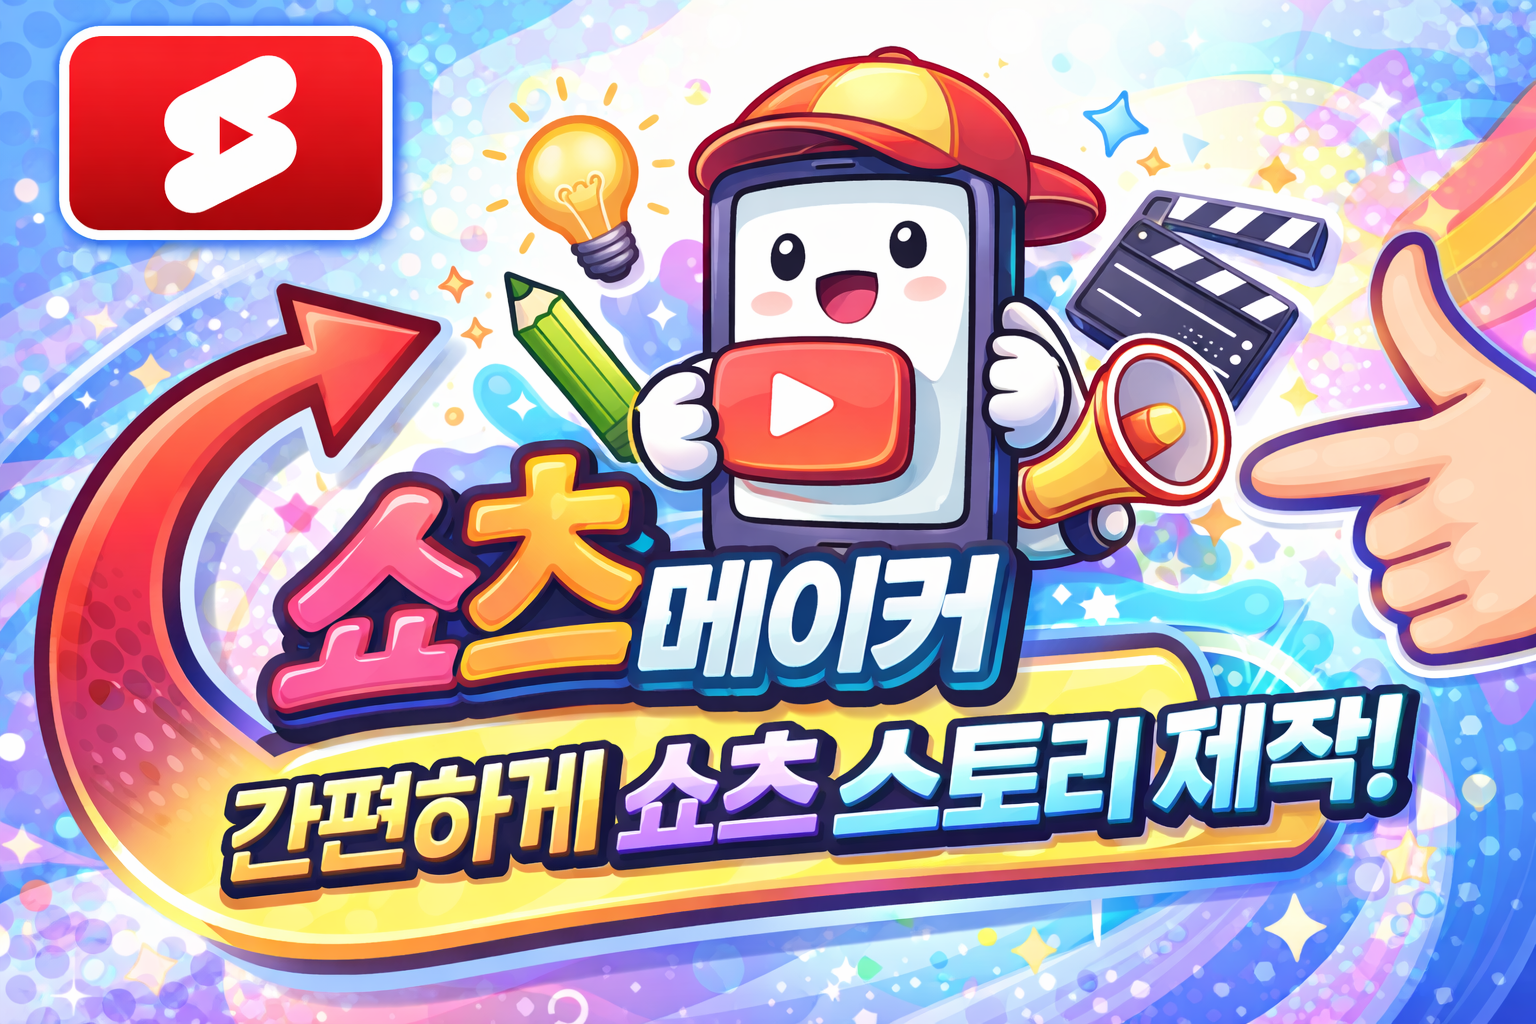
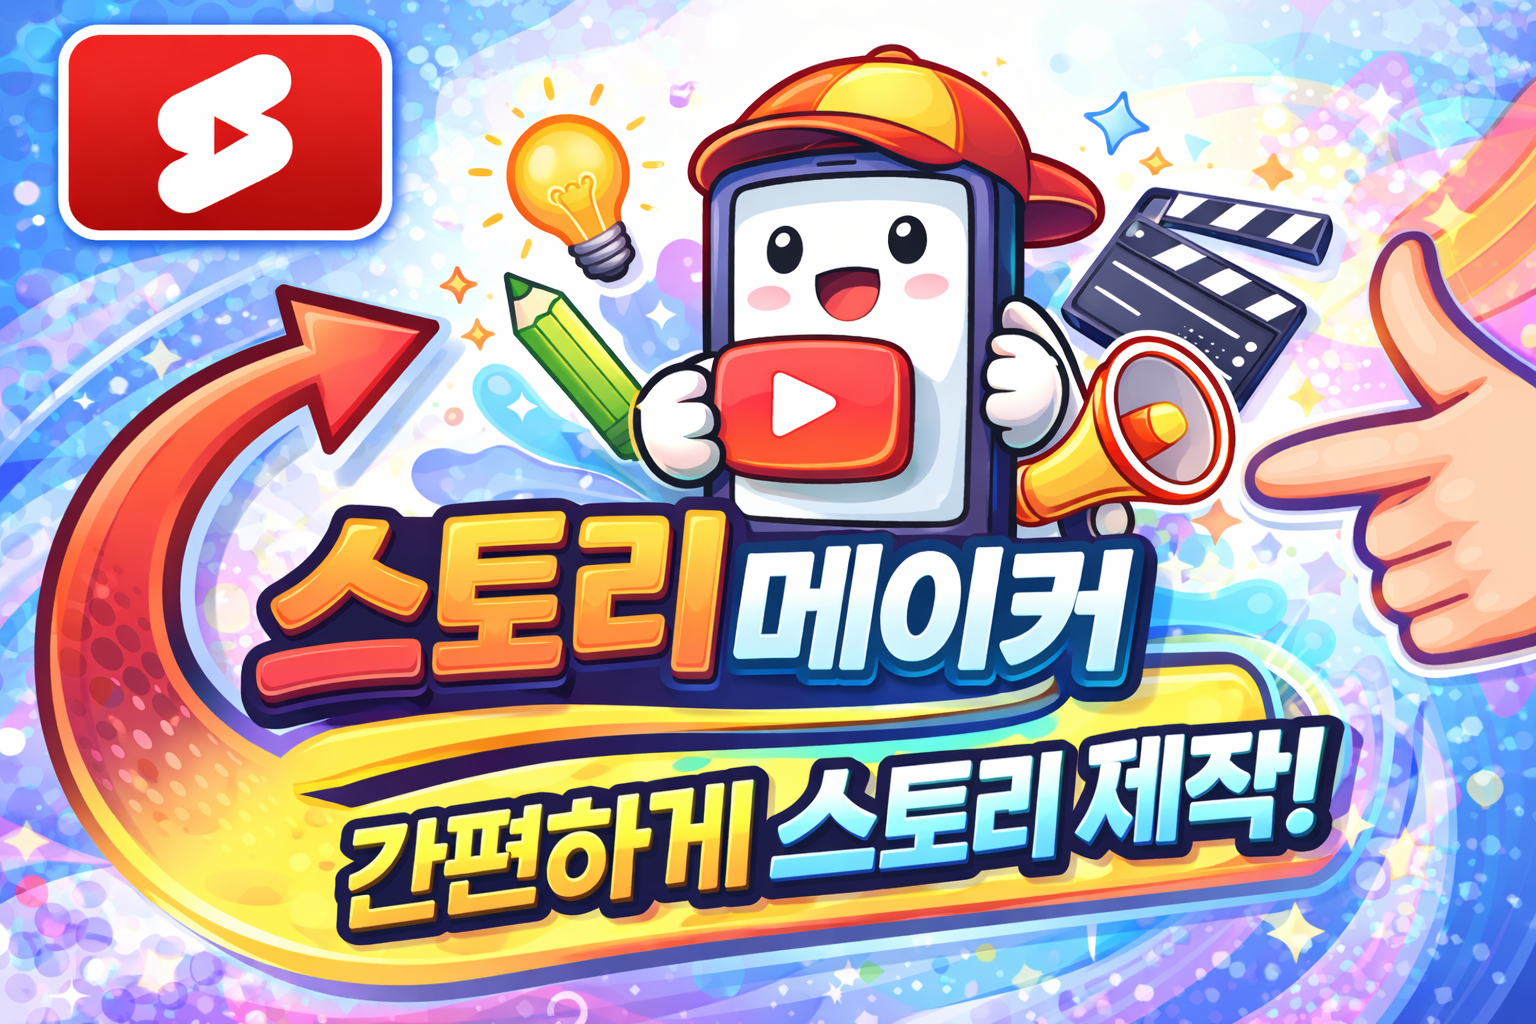
캐시수정급!

diff --git a/src/components/layout/side-layout.tsx b/src/components/layout/side-layout.tsx
@@ -3,6 +3,7 @@ import SidebarItem from "../main/side-bar-item";
 import { useSession } from "@/store/session";
 import Loader from "../loader";
 import RightPanel from "../main/right-side-bar";
+import SidebarLogo from "@/assets/sidebar.png";
 
 export default function SideLayout() {
   const session = useSession();
@@ -12,8 +13,12 @@ export default function SideLayout() {
   return (
     <div className="mx-auto flex min-h-screen">
       <aside className="sticky top-0 h-[calc(100vh-5.25rem)] w-60 md:block">
-        <div className="flex justify-center px-6 py-5 text-lg font-bold">
-          쇼츠 메이커
+        <div className="flex justify-center">
+          <img
+            src={SidebarLogo}
+            alt="스토리메이커 로고"
+            className="h-28 max-w-full object-contain"
+          />
         </div>
 
         <nav className="flex flex-col gap-1 px-3 text-lg">

diff --git a/src/hooks/mutations/story/use-delete-story.ts b/src/hooks/mutations/story/use-delete-story.ts
@@ -14,10 +14,22 @@ export function useDeleteStory(userId: string) {
 
     onSuccess: (_, storyId) => {
       queryClient.setQueryData<InfiniteData<StoryEntity[]>>(
-        ["story", "list", "byId", userId],
+        ["story", "list", "user", userId],
         (old) => {
           if (!old) return old;
+          return {
+            ...old,
+            pages: old.pages.map((page) =>
+              page.filter((story) => story.id !== storyId),
+            ),
+          };
+        },
+      );
 
+      queryClient.setQueryData<InfiniteData<StoryEntity[]>>(
+        ["story", "list", "public"],
+        (old) => {
+          if (!old) return old;
           return {
             ...old,
             pages: old.pages.map((page) =>

diff --git a/src/hooks/queries/use-public-story-infinity.ts b/src/hooks/queries/use-public-story-infinity.ts
@@ -3,7 +3,7 @@ import { useInfiniteQuery } from "@tanstack/react-query";
 
 export function usePublicStoriesInfinity(userId: string) {
   return useInfiniteQuery({
-    queryKey: ["story", "list", "byId", userId],
+    queryKey: ["story", "list", "byId", "public", userId],
     queryFn: ({ pageParam = 0 }) =>
       fetchPublicStoriesInfinity({ page: pageParam, userId }),
     enabled: !!userId,
